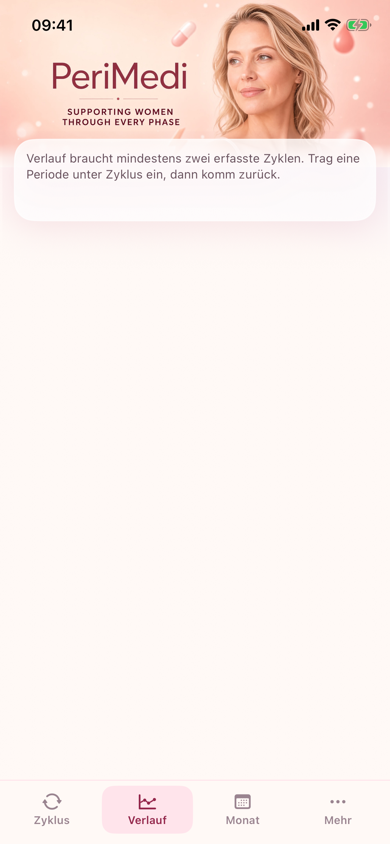
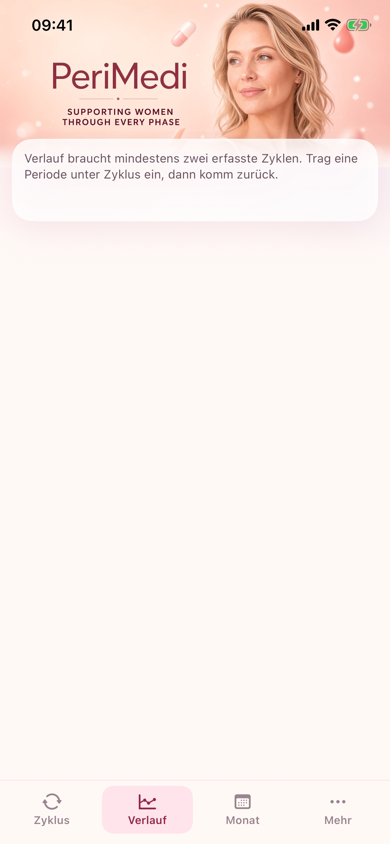
Trends empty card is full width, not full height
The card matches the chart card’s width when there are no cycles or scores. Height follows the copy.

Changed region(s): [[0.0615, 0.1848, 0.7692, 0.2156], [0.8, 0.1848, 0.9231, 0.2156]]

diff --git a/ios/PeriMedi/Features/Trends/TrendsView.swift b/ios/PeriMedi/Features/Trends/TrendsView.swift
@@ -48,6 +48,7 @@ struct TrendsView: View {
                         .accessibilityValue(containerValue(result))
                 }
                 .padding(12)
+                .frame(maxWidth: .infinity, alignment: .topLeading)
                 .accessibilityElement(children: .contain)
             }
             .accessibilityIdentifier(A11yID.trendsScreen)

diff --git a/openspec/specs/symptom-trends/spec.md b/openspec/specs/symptom-trends/spec.md
@@ -97,11 +97,11 @@ The system SHALL show short English and German copy when Trends cannot draw a us
 
 #### Scenario: No period history
 - **WHEN** no logged period start exists
-- **THEN** Trends shows short copy that it needs at least two logged cycles and does not draw axes with zero dots
+- **THEN** Trends shows short copy that it needs at least two logged cycles, in the same full-width card as the chart, and does not draw axes with zero dots
 
 #### Scenario: No scores in range
 - **WHEN** at least one logged cycle exists and none of those cycles have symptom scores
-- **THEN** Trends shows copy equivalent to “No symptom scores in these cycles yet.”
+- **THEN** Trends shows copy equivalent to “No symptom scores in these cycles yet.” in the same full-width card as the chart
 
 #### Scenario: No treatment advice
 - **WHEN** Trends is shown with or without scores

diff --git a/.grok/skills/verify-perimedi/features/trends.md b/.grok/skills/verify-perimedi/features/trends.md
@@ -33,7 +33,7 @@ UI tests that need several cycles of scores launch with `-fixture=trends` (not `
 ## Gotchas
 
 - Default chart is plot → stacked selected names → size key → Change. No chip cloud, no group titles, no “Select the symptoms…”.
-- Empty states hide Change and the catalog sheet.
+- Empty states hide Change and the catalog sheet. The card is full width like the chart card; height follows the copy.
 - Y is days scored, never `hot_flash` episode `count`. Size is mean intensity, not the sum.
 - Missing scores for an id are a gap: no `trends.dot.{id}.{cycleStart}`, not `count:0`.
 - Default three are the ids with the most scored days in the visible span. Selecting a fourth in the sheet replaces the lowest of those three. Max three selected.
